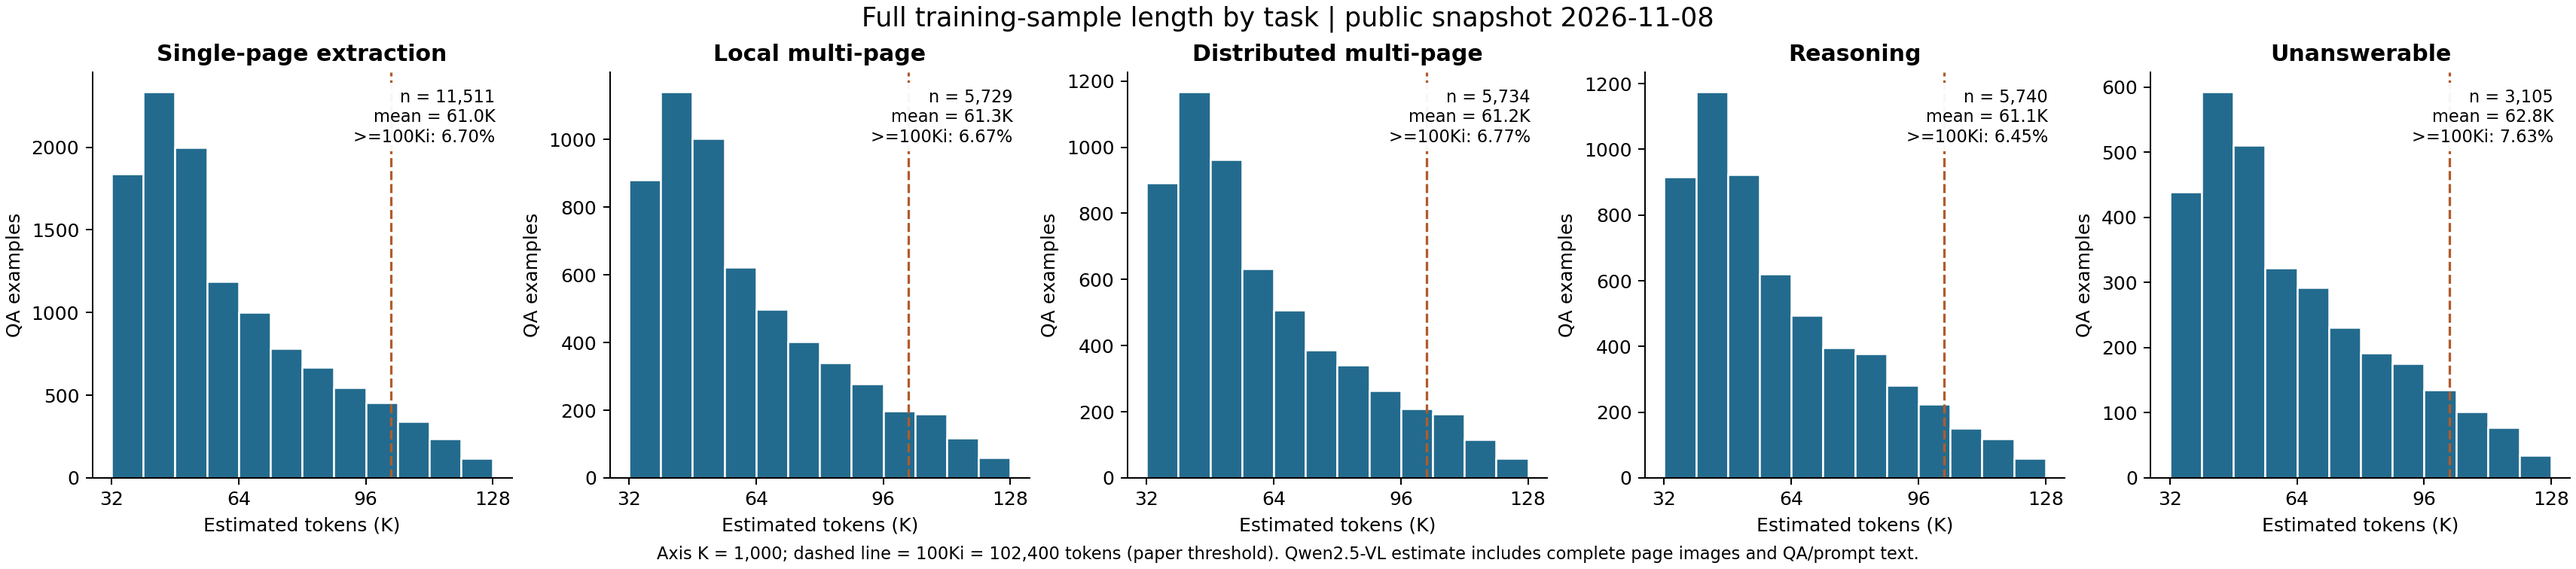
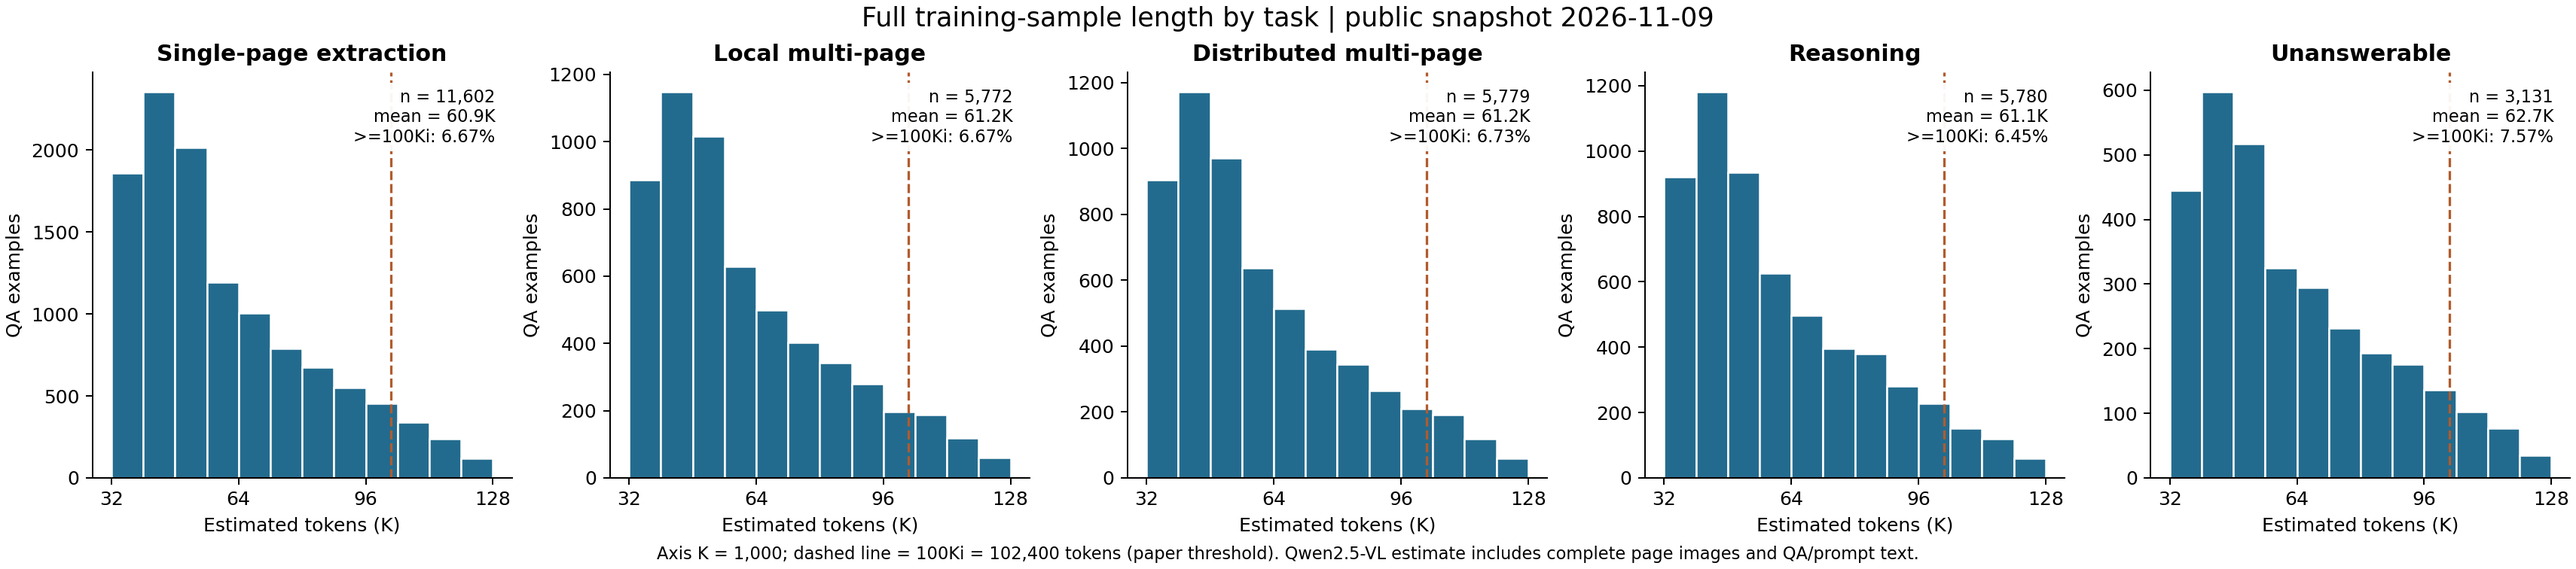
Update public corpus statistics to 1.963B measured tokens

diff --git a/docs/public_dataset.md b/docs/public_dataset.md
@@ -13,26 +13,26 @@ This page describes the admitted public snapshot identified below. It is a separ
 The manuscript defines binary prefixes (K=1024, B=2^30). Public tables use decimal K=1,000 and B=1,000,000,000; the >=100Ki statistic uses 102,400 to match the paper threshold. Exact raw counts and per-document labels are published with the dataset.
 
 <!-- PUBLIC_CORPUS_STATS_START -->
-**Public snapshot (2026-11-08): 31,819 QA examples, 4,136 source PDFs, 100,124 unique page images, and 1,949,558,361 estimated training tokens (approximately 1.950B).**
+**Public snapshot (2026-11-09): 32,064 QA examples, 4,263 source PDFs, 102,948 unique page images, and 1,963,498,927 estimated training tokens (approximately 1.963B).**
 
-[This published snapshot](https://huggingface.co/datasets/ZhaoweiWang/MMProLong-Data-Public/tree/7c846b50388d665e79905ee4d7e3334060d49c6a); [latest data](https://huggingface.co/datasets/ZhaoweiWang/MMProLong-Data-Public).
+[This published snapshot](https://huggingface.co/datasets/ZhaoweiWang/MMProLong-Data-Public/tree/5a2fd9a7bdadbfece7c93e7b18a4ed20465a7f0a); [latest data](https://huggingface.co/datasets/ZhaoweiWang/MMProLong-Data-Public).
 
 ### Corpus scale
 
 | Statistic | Public snapshot value |
 | --- | --- |
-| Admitted unique PDFs | 4,136 |
+| Admitted unique PDFs | 4,263 |
 | Document family | arXiv research papers |
-| Unique rendered page images | 100,124 |
-| Document pages: mean / median | 24.21 / 22 |
+| Unique rendered page images | 102,948 |
+| Document pages: mean / median | 24.15 / 22 |
 | Document pages: range / 5th-95th percentile | 14-50 / 14-42 |
-| Admitted QA examples | 31,819 |
-| Estimated training tokens | 1,949,558,361 (1.950B) |
-| Per-QA tokens: mean / median | 61.270K / 54.794K |
+| Admitted QA examples | 32,064 |
+| Estimated training tokens | 1,963,498,927 (1.963B) |
+| Per-QA tokens: mean / median | 61.237K / 54.789K |
 | Observed token range | 33,547-125,503 |
-| At least 100,000 tokens | 2,562 (8.05%) |
-| At least 100Ki = 102,400 tokens (paper threshold) | 2,148 (6.75%) |
-| Page references across all QA contexts | 767,259 |
+| At least 100,000 tokens | 2,572 (8.02%) |
+| At least 100Ki = 102,400 tokens (paper threshold) | 2,158 (6.73%) |
+| Page references across all QA contexts | 772,738 |
 
 Tokens are the stored Qwen2.5-VL serialized-sample estimate, including full page-image context and QA/prompt text. A PDF used by several questions contributes its context repeatedly to the training-token total. This is not a count of unique-text tokens or billed API tokens. Page images are physically stored once per document.
 
@@ -42,12 +42,12 @@ Tokens are the stored Qwen2.5-VL serialized-sample estimate, including full page
 
 | Task | QA | Avg. pages | Avg. K tokens | B tokens | Pages | K-token range | >=100Ki |
 | --- | --- | --- | --- | --- | --- | --- | --- |
-| `single` | 11,511 | 24.01 | 60.97 | 0.702 | 14-50 | 33.80-125.13 | 6.70% |
-| `multi_local` | 5,729 | 24.08 | 61.26 | 0.351 | 14-50 | 33.85-125.50 | 6.67% |
-| `multi_distributed` | 5,734 | 24.07 | 61.20 | 0.351 | 14-50 | 33.84-125.29 | 6.77% |
-| `reasoning` | 5,740 | 24.07 | 61.13 | 0.351 | 14-50 | 33.55-125.11 | 6.45% |
-| `unanswerable` | 3,105 | 24.73 | 62.79 | 0.195 | 14-50 | 33.79-125.09 | 7.63% |
-| **Total** | 31,819 | 24.11 | 61.27 | 1.950 | 14-50 | 33.55-125.50 | 6.75% |
+| `single` | 11,602 | 23.99 | 60.93 | 0.707 | 14-50 | 33.80-125.13 | 6.67% |
+| `multi_local` | 5,772 | 24.07 | 61.24 | 0.353 | 14-50 | 33.85-125.50 | 6.67% |
+| `multi_distributed` | 5,779 | 24.05 | 61.15 | 0.353 | 14-50 | 33.84-125.29 | 6.73% |
+| `reasoning` | 5,780 | 24.07 | 61.13 | 0.353 | 14-50 | 33.55-125.11 | 6.45% |
+| `unanswerable` | 3,131 | 24.70 | 62.72 | 0.196 | 14-50 | 33.79-125.09 | 7.57% |
+| **Total** | 32,064 | 24.10 | 61.24 | 1.963 | 14-50 | 33.55-125.50 | 6.73% |
 
 `K = 1,000`, `B = 1,000,000,000`; `100Ki = 102,400` tokens. Average pages in this table are **QA-weighted**, whereas the corpus-scale document average counts each PDF once. The two multi-page rows may be combined for comparison with the paper's broader extraction category. Unanswerable QA is an additional public-data task. Exact values, quantiles, and the combined task grouping are in [`metadata/statistics.json`](https://huggingface.co/datasets/ZhaoweiWang/MMProLong-Data-Public/blob/main/metadata/statistics.json).
 
@@ -57,16 +57,16 @@ Tokens are the stored Qwen2.5-VL serialized-sample estimate, including full page
 
 | Primary domain | Documents | Document share | QA | QA share |
 | --- | --- | --- | --- | --- |
-| Physics | 1,272 | 30.75% | 9,186 | 28.87% |
-| Mathematics | 1,140 | 27.56% | 8,639 | 27.15% |
-| Computer Science | 1,084 | 26.21% | 8,851 | 27.82% |
-| Engineering | 332 | 8.03% | 2,605 | 8.19% |
-| Social Science | 81 | 1.96% | 645 | 2.03% |
-| Economics | 80 | 1.93% | 643 | 2.02% |
-| Medicine | 57 | 1.38% | 496 | 1.56% |
-| Earth Science | 49 | 1.18% | 423 | 1.33% |
-| Biology | 28 | 0.68% | 245 | 0.77% |
-| Other | 8 | 0.19% | 56 | 0.18% |
+| Physics | 1,300 | 30.49% | 9,240 | 28.82% |
+| Mathematics | 1,156 | 27.12% | 8,671 | 27.04% |
+| Computer Science | 1,147 | 26.91% | 8,972 | 27.98% |
+| Engineering | 343 | 8.05% | 2,626 | 8.19% |
+| Social Science | 85 | 1.99% | 653 | 2.04% |
+| Economics | 80 | 1.88% | 643 | 2.01% |
+| Medicine | 60 | 1.41% | 501 | 1.56% |
+| Earth Science | 51 | 1.20% | 427 | 1.33% |
+| Biology | 28 | 0.66% | 245 | 0.76% |
+| Other | 8 | 0.19% | 56 | 0.17% |
 | Language and Literature | 5 | 0.12% | 30 | 0.09% |
 
 Document and QA shares differ because historical phases generated different numbers of questions per PDF. Domain labels describe the source PDF, not a separate topic inferred for each question.
@@ -75,21 +75,21 @@ Document and QA shares differ because historical phases generated different numb
 
 | Answer format | QA | Share |
 | --- | --- | --- |
-| Integer | 4,793 | 15.06% |
-| Float | 1,485 | 4.67% |
-| List | 10,645 | 33.45% |
-| String | 11,791 | 37.06% |
-| Unanswerable | 3,105 | 9.76% |
+| Integer | 4,824 | 15.04% |
+| Float | 1,508 | 4.70% |
+| List | 10,710 | 33.40% |
+| String | 11,891 | 37.09% |
+| Unanswerable | 3,131 | 9.76% |
 
-There are **28,714 answerable** and **3,105 unanswerable** QA examples. The observed necessary-evidence page counts are: 0 pages: 3,105, 1 pages: 14,508, 2 pages: 9,437, 3 pages: 3,821, 4 pages: 948.
+There are **28,933 answerable** and **3,131 unanswerable** QA examples. The observed necessary-evidence page counts are: 0 pages: 3,131, 1 pages: 14,620, 2 pages: 9,508, 3 pages: 3,850, 4 pages: 955.
 
 <details>
 <summary>Observed QA count per source document</summary>
 
 | QA per document | Documents |
 | --- | --- |
-| 1 | 163 |
-| 2 | 1,566 |
+| 1 | 172 |
+| 2 | 1,684 |
 | 6 | 1 |
 | 8 | 1 |
 | 9 | 7 |
@@ -106,19 +106,19 @@ The 20-QA documents belong to the initial pilot; the two-QA limit applies to the
 
 | Recorded method | Documents |
 | --- | --- |
-| majority of full-context generator domain labels | 4,024 |
-| arXiv primary category mapping | 103 |
+| majority of full-context generator domain labels | 4,148 |
+| arXiv primary category mapping | 106 |
 | manual primary-topic classification for validated pilot batches | 9 |
 
 ## Document language
 
 | Estimated document language | Documents | Document share | Associated QA |
 | --- | --- | --- | --- |
-| English (`en`) | 4,131 | 99.879% | 31,779 |
-| Spanish (`es`) | 2 | 0.048% | 14 |
-| French (`fr`) | 1 | 0.024% | 2 |
-| Russian (`ru`) | 1 | 0.024% | 12 |
-| Chinese (`zh`) | 1 | 0.024% | 12 |
+| English (`en`) | 4,258 | 99.883% | 32,024 |
+| Spanish (`es`) | 2 | 0.047% | 14 |
+| French (`fr`) | 1 | 0.023% | 2 |
+| Russian (`ru`) | 1 | 0.023% | 12 |
+| Chinese (`zh`) | 1 | 0.023% | 12 |
 
 Language labels are automatic estimates from sampled embedded PDF text; non-English/uncertain predictions receive a prose-filter recheck. They are not human-verified. Method, sampled pages, scores and recheck provenance are retained with each document.
 
@@ -126,14 +126,14 @@ Language labels are automatic estimates from sampled embedded PDF text; non-Engl
 
 | Recorded generation model | Documents | QA | QA share | B training tokens |
 | --- | --- | --- | --- | --- |
-| `gpt-5.5-2026-04-24` | 2,407 | 28,524 | 89.64% | 1.745 |
-| `gpt-5.6-sol` | 1,729 | 3,295 | 10.36% | 0.205 |
+| `gpt-5.5-2026-04-24` | 2,407 | 28,524 | 88.96% | 1.745 |
+| `gpt-5.6-sol` | 1,856 | 3,540 | 11.04% | 0.219 |
 
 | Phase | Documents | QA | Maximum QA per document |
 | --- | --- | --- | --- |
 | Initial pilot (GPT-5.5) | 4 | 80 | 20 |
 | GPT-5.5 production | 2,403 | 28,444 | 12 |
-| Current GPT-5.6 production | 1,729 | 3,295 | 2 |
+| Current GPT-5.6 production | 1,856 | 3,540 | 2 |
 
 The current snapshot is a **mixed-model historical release**, not an all-GPT-5.6 corpus. Use the `model` field when a model-specific subset is required.
 

diff --git a/README.md b/README.md
@@ -40,7 +40,7 @@ Please check out the [paper](https://arxiv.org/abs/2605.13831) for the study and
 ## 📢 Latest Updates
 
 <!-- PUBLIC_CORPUS_SUMMARY_START -->
-**Public snapshot (2026-11-08): 31,819 QA examples, 4,136 source PDFs, 100,124 unique page images, and 1,949,558,361 estimated training tokens (approximately 1.950B).**
+**Public snapshot (2026-11-09): 32,064 QA examples, 4,263 source PDFs, 102,948 unique page images, and 1,963,498,927 estimated training tokens (approximately 1.963B).**
 
 [Dataset](https://huggingface.co/datasets/ZhaoweiWang/MMProLong-Data-Public) | [Statistics](docs/public_dataset.md)
 <!-- PUBLIC_CORPUS_SUMMARY_END -->
